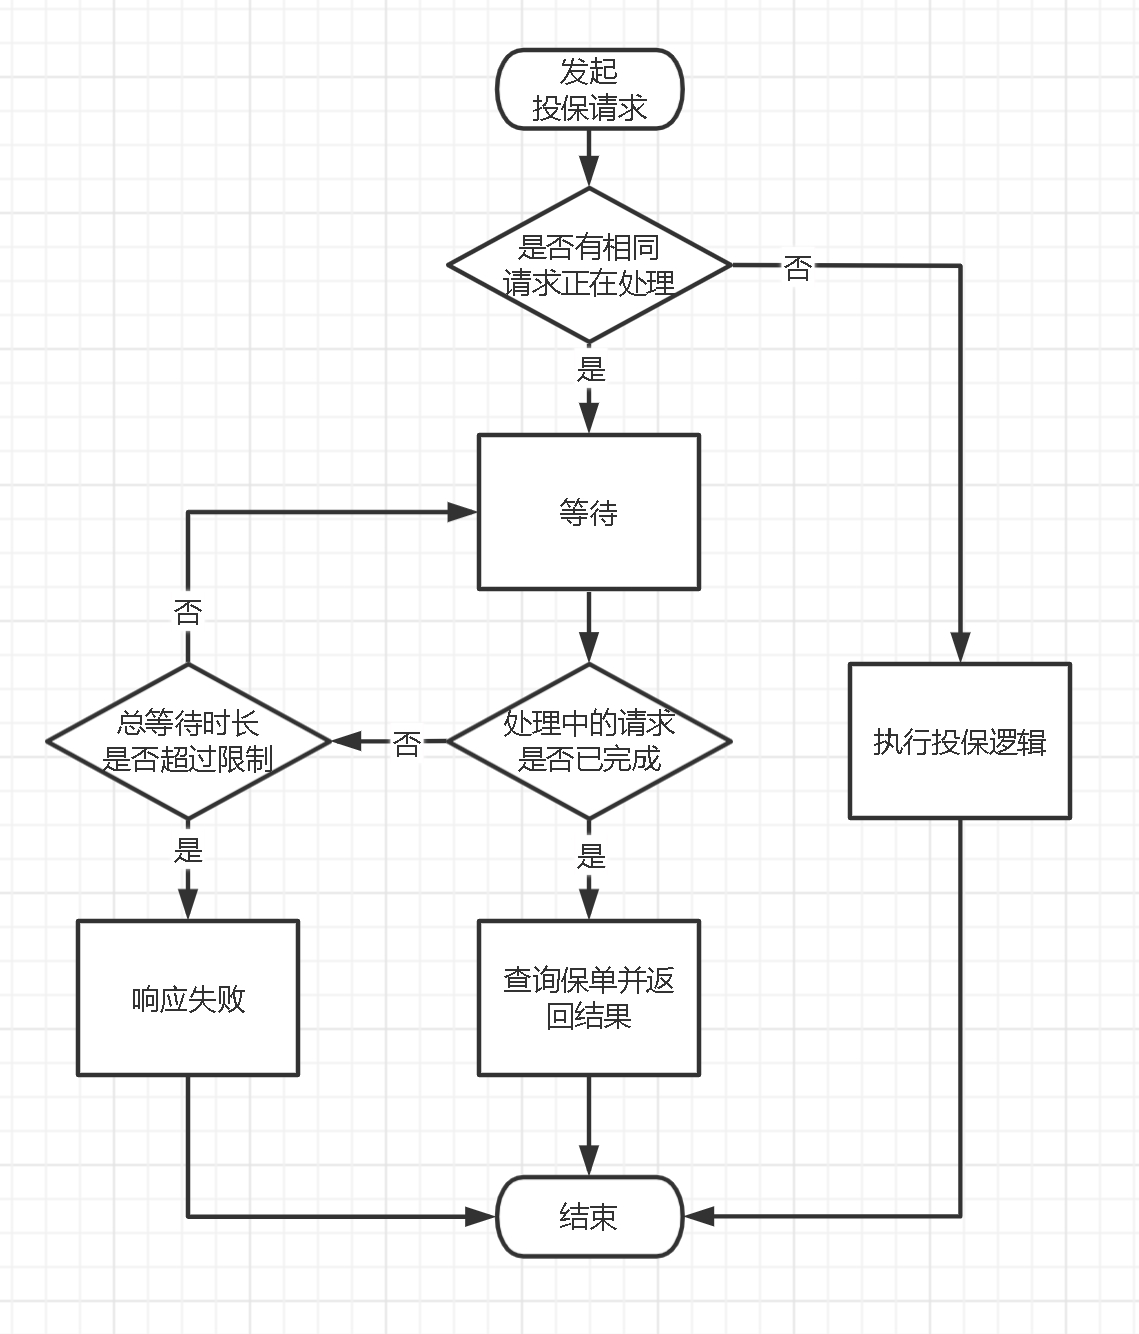
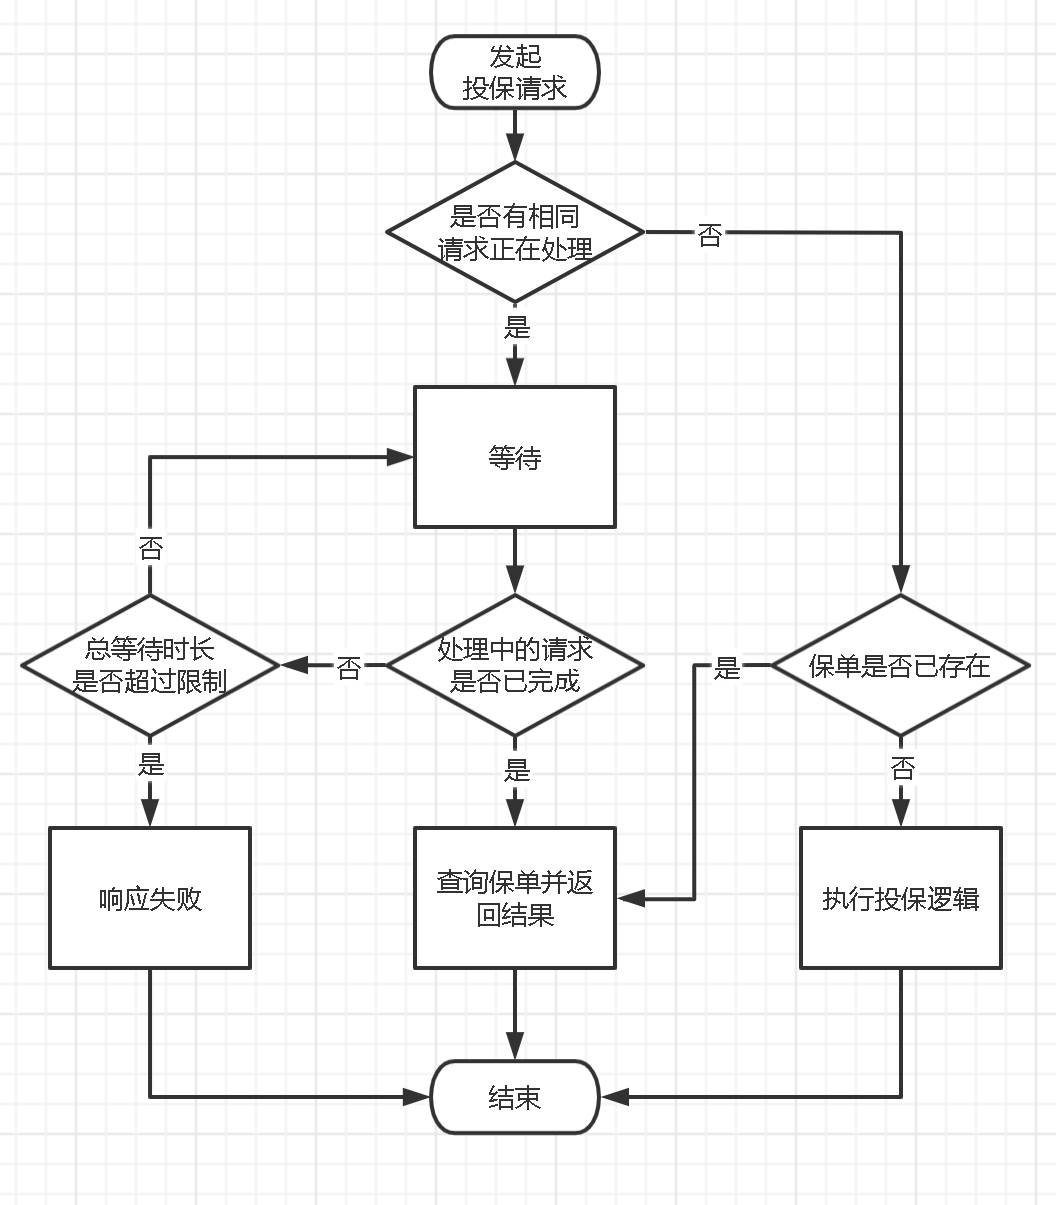
调整流程图。

Changed region(s): [[0.0312, 0.0307, 0.9688, 0.9519]]

diff --git a/profile/成立初期/接口幂等.md b/profile/成立初期/接口幂等.md
@@ -1,8 +1,8 @@
 # 接口幂等<!-- omit in toc -->
 
-**实际问题**：当出现网络延迟或服务端响应迟钝时，客户端可能会中断请求，导致无法接受到处理结果。如果再次尝试可能会得到 “重复操作” 的错误提示。
+**实际问题**：当出现网络延迟或服务端响应缓慢时，客户端可能会中断请求，导致无法接收到处理结果。如果再次尝试可能会得到 “重复操作” 的错误提示。
 
-**解决思路**：实现接口幂等。当客户端使用相同的参数请求同一个接口时，将得到相同的结果，且不会造成额外的影响。当然，有些功能存在一定的特殊性，需要根据实际情况灵活变通。
+**解决思路**：实现接口幂等。当客户端使用相同的参数请求同一个接口时，将得到相同的结果，且不会造成额外的影响。当然，有些功能存在一定的特殊性，需要根据实际情况灵活调整策略。
 
 ## 1. 承保接口幂等方案
 
